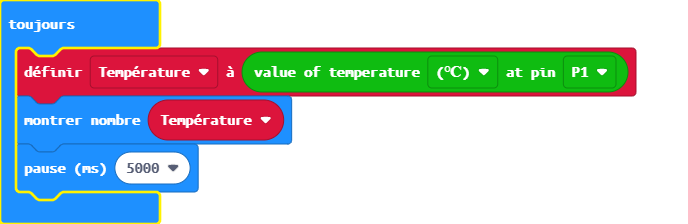
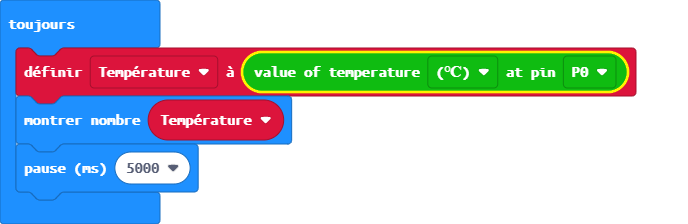
Mise à jour main.blocks, main.ts

Changed region(s): [[0.0, 0.0, 0.2442, 1.0], [0.3358, 0.2188, 0.9157, 0.4375], [0.8241, 0.2812, 0.8547, 0.3438]]

diff --git a/main.ts b/main.ts
@@ -1,6 +1,6 @@
 let Température = 0
 basic.forever(function () {
-    Température = smarthome.ReadTemperature(TMP36Type.TMP36_temperature_C, AnalogPin.P1)
+    Température = smarthome.ReadTemperature(TMP36Type.TMP36_temperature_C, AnalogPin.P0)
     basic.showNumber(Température)
     basic.pause(5000)
 })
